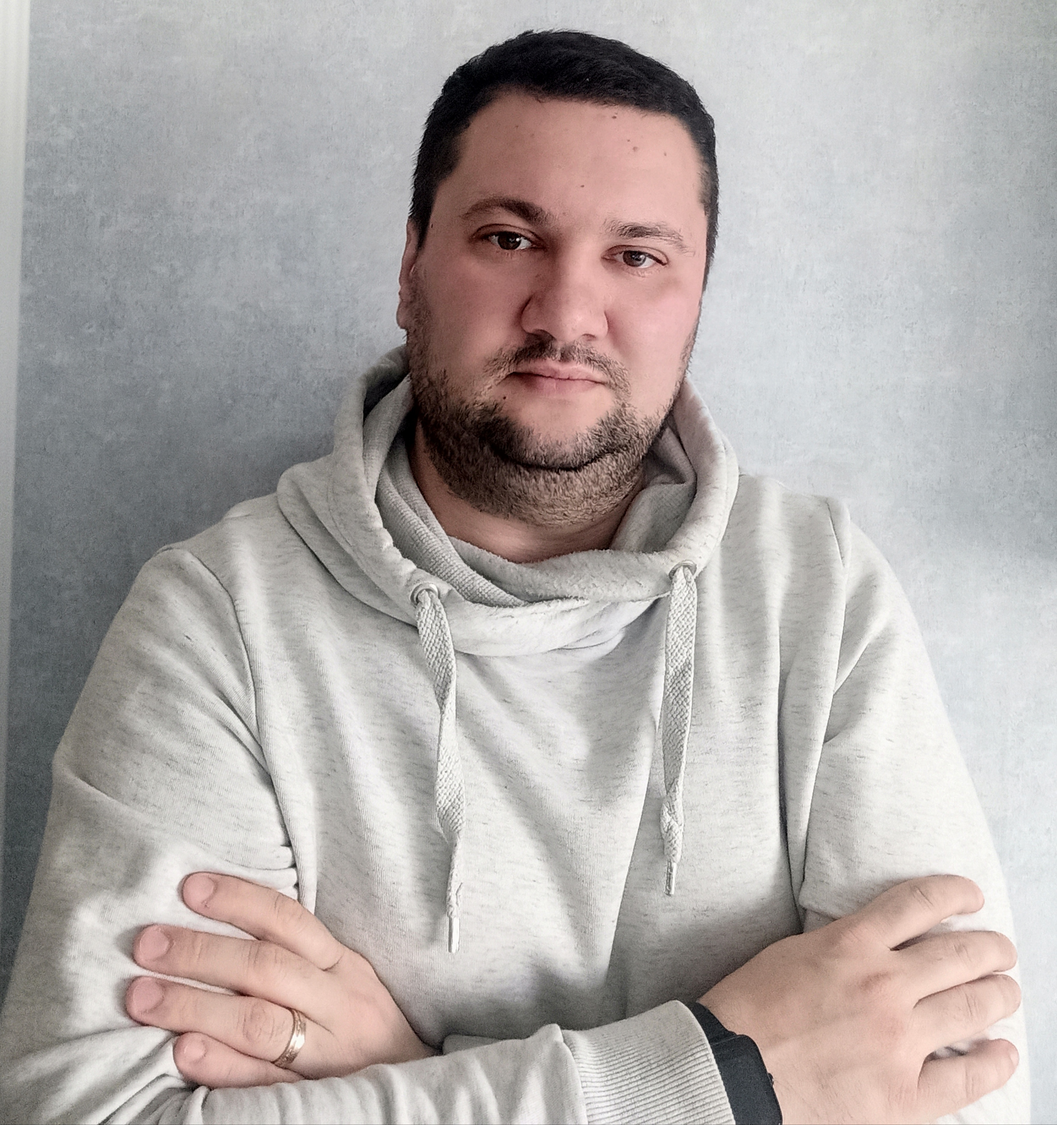
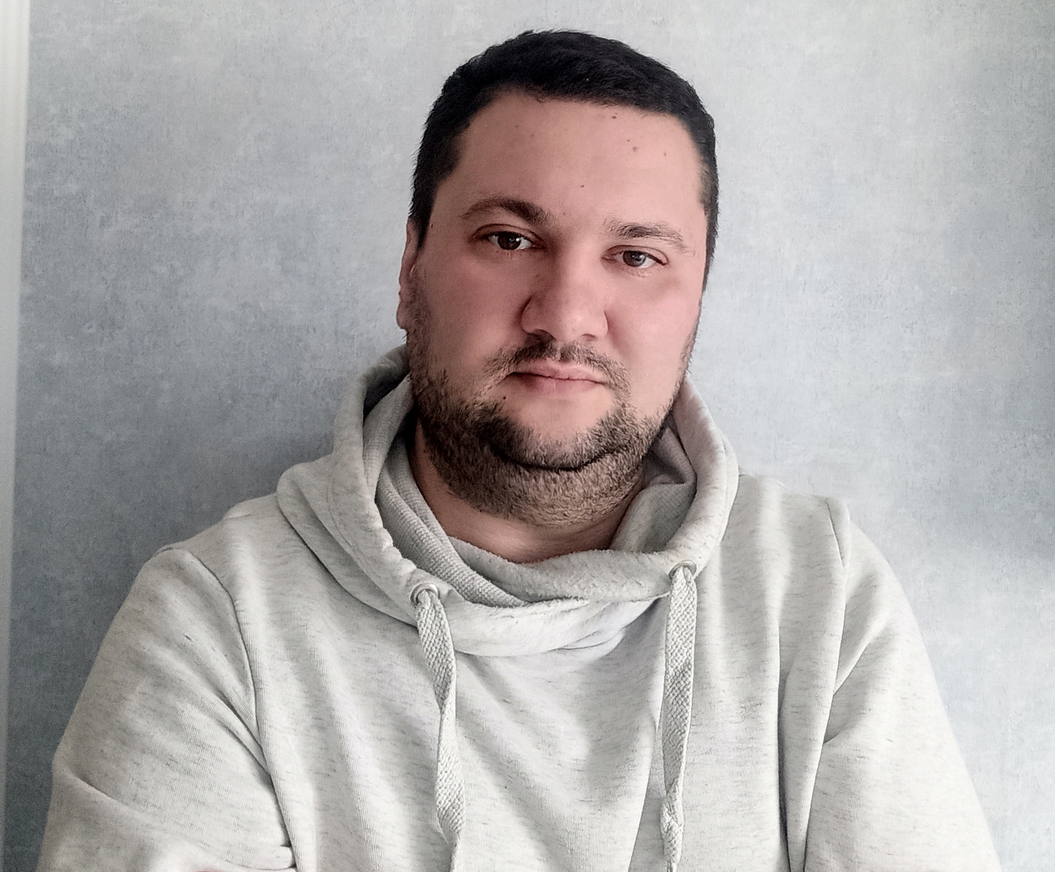
update photo

diff --git a/index.html b/index.html
@@ -17,7 +17,7 @@
  <div class="main">
     <!--Sidebar-->
     <aside class="sidebar">
-        <img src="img/1673696609905.jpg" alt="user photo" class="photo">
+        <img src="img/1675676729533.jpg" alt="user photo" class="photo">
         <!--About me-->
         <button type="button" class="button" data-modal-open>Summary</button>
         
